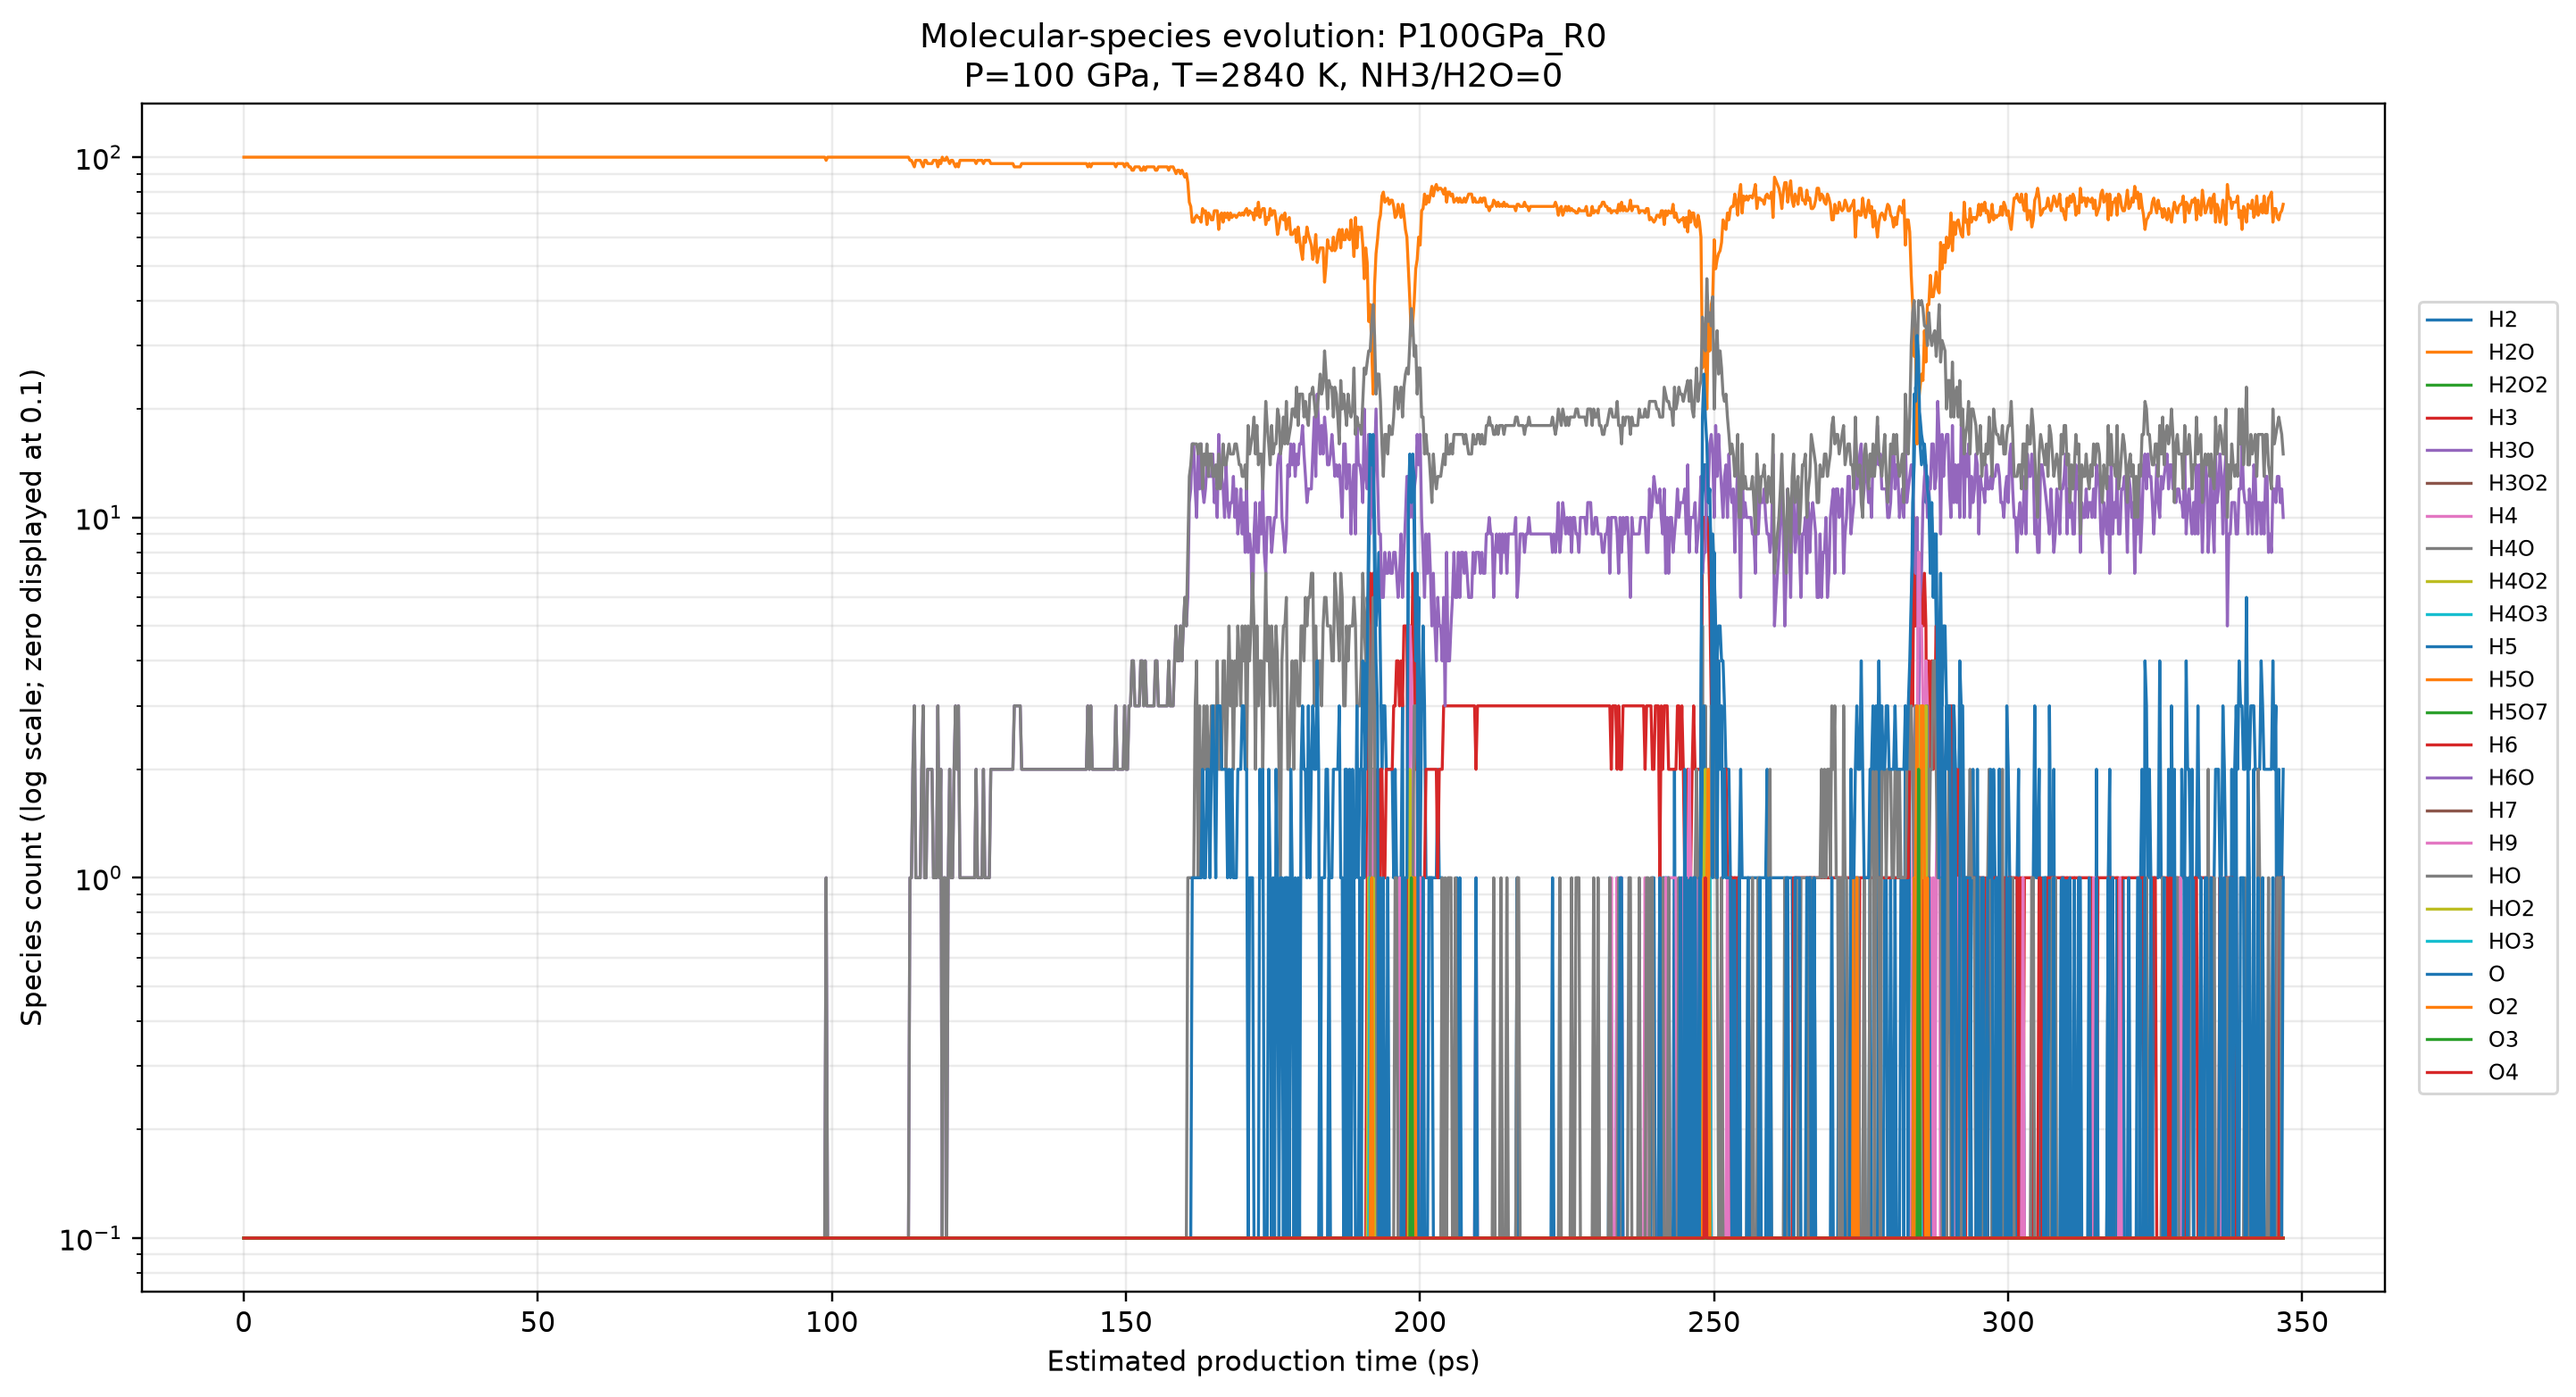
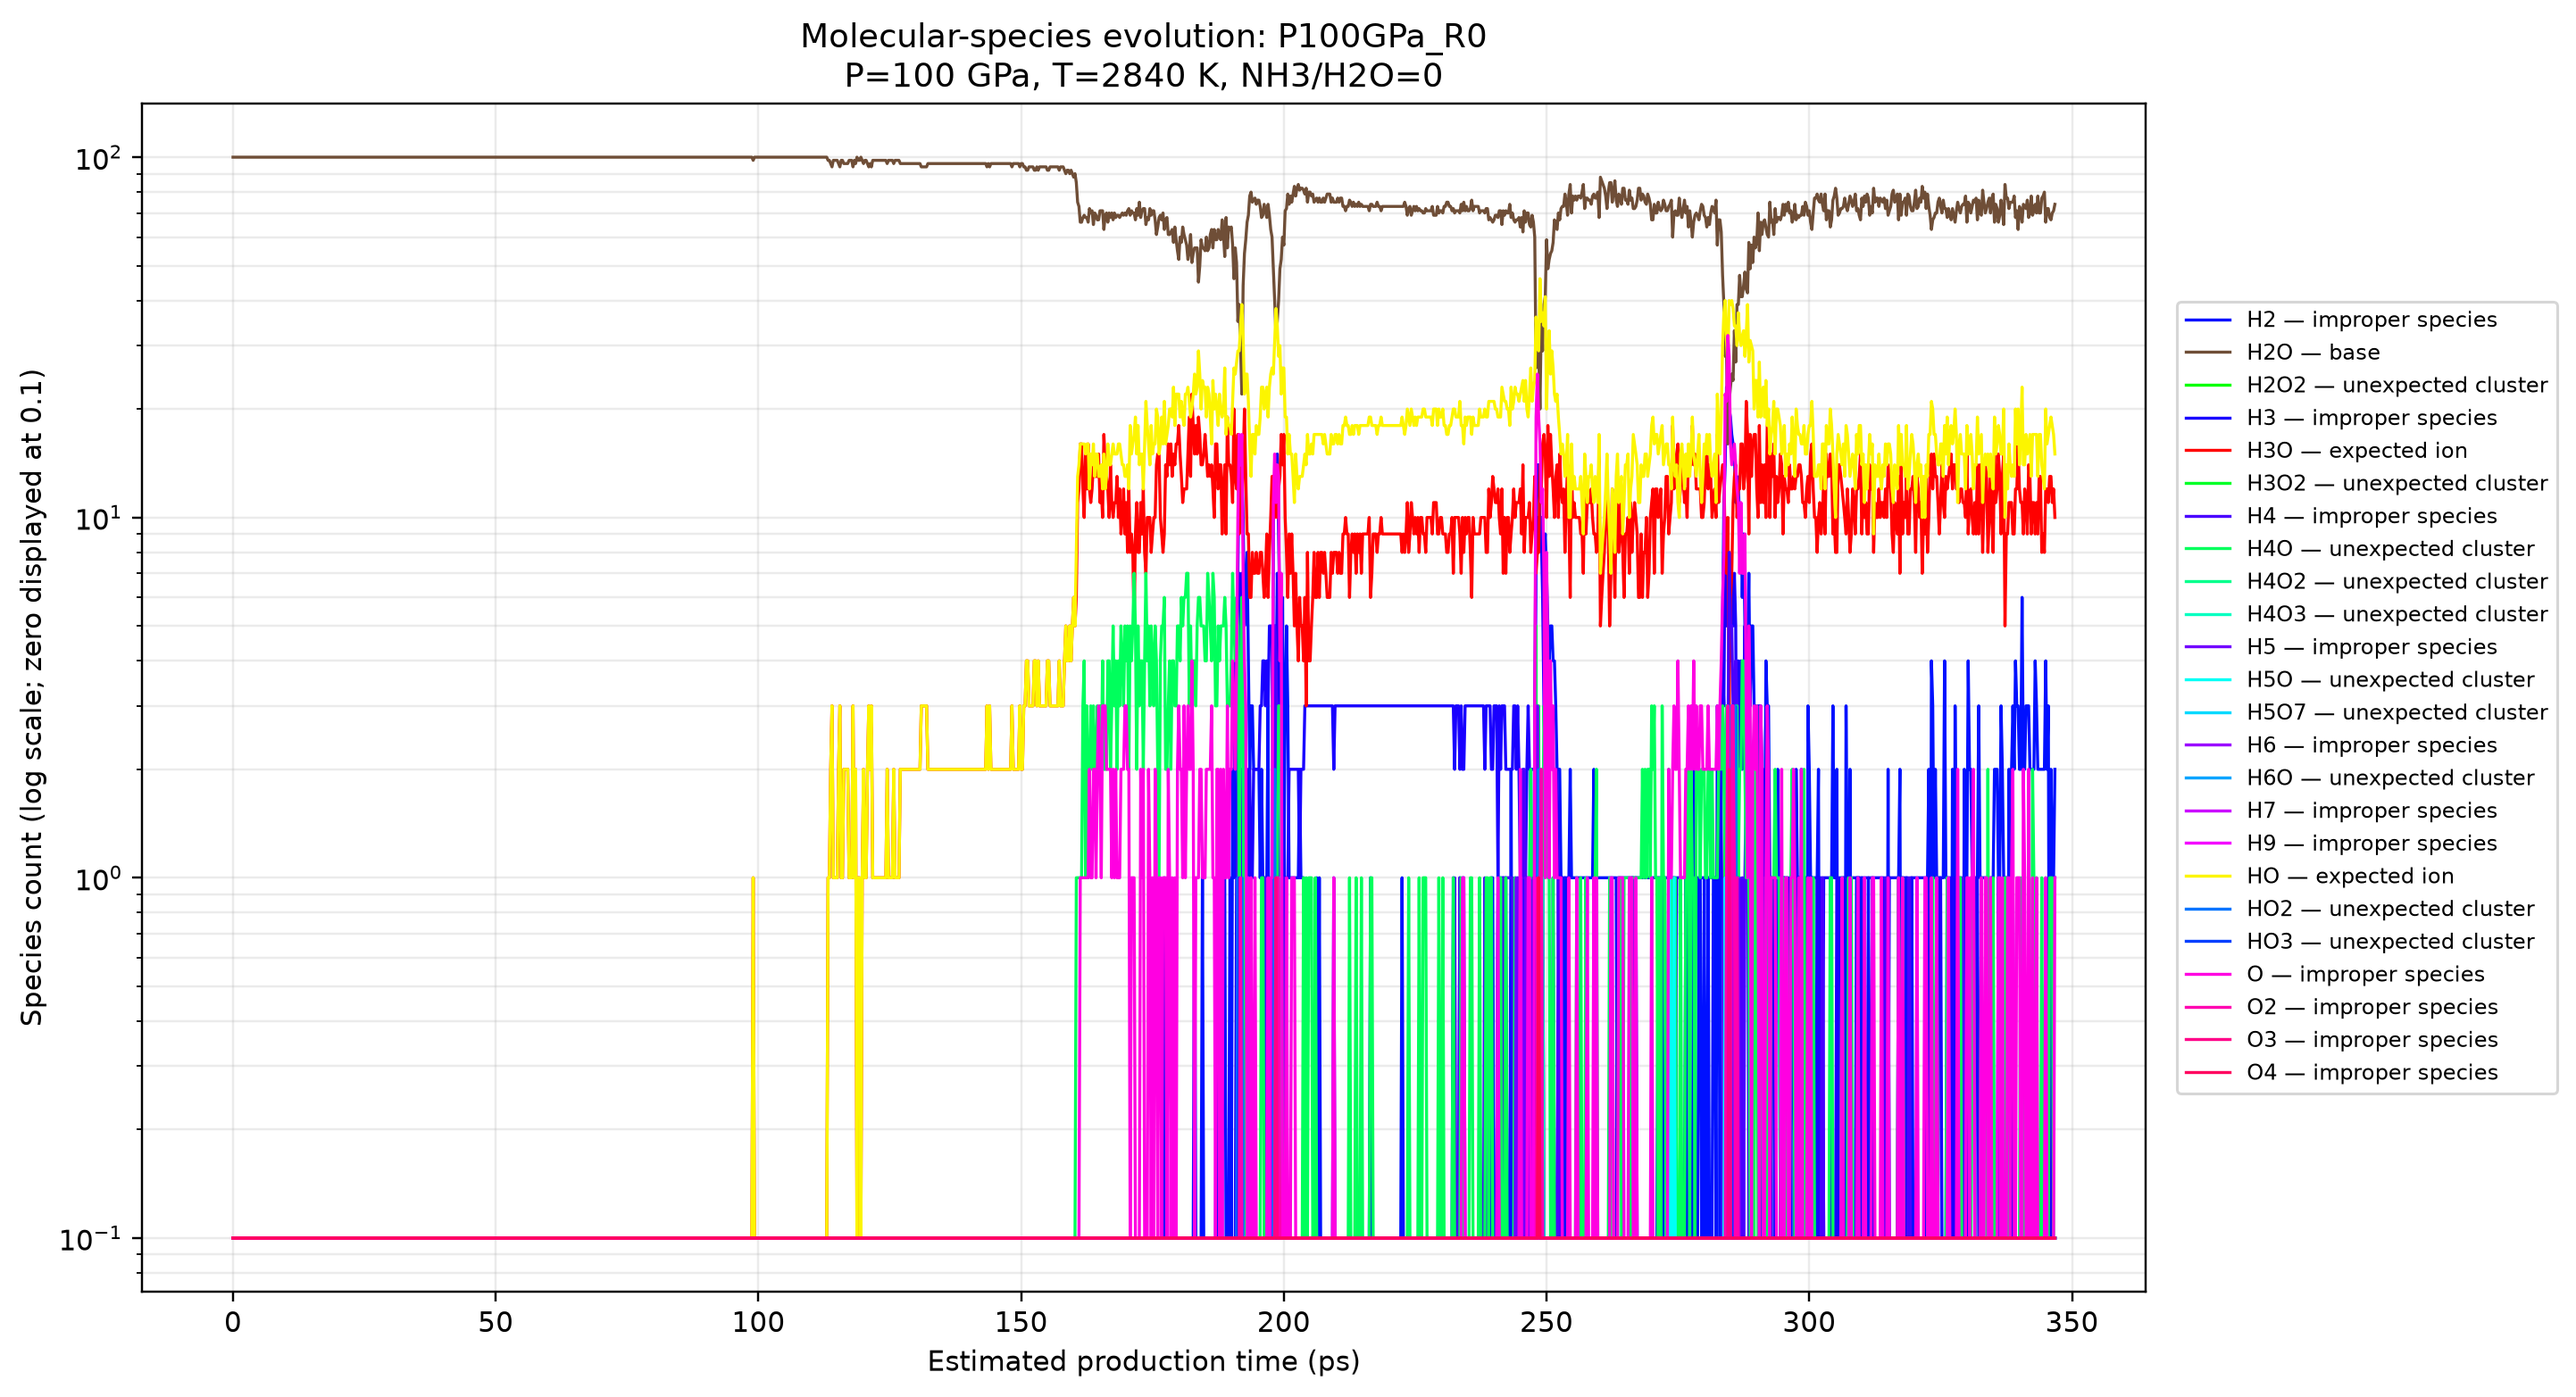
8/25d

diff --git a/codes/B_conditionsproduction/plot_species_time_series.py b/codes/B_conditionsproduction/plot_species_time_series.py
@@ -1,9 +1,10 @@
 #!/usr/bin/env python3
 """Plot molecular-species counts through time for production trajectories.
 
-The default run analyses every condensed frame of the first manifest condition
-(P100GPa_R0) and uses four worker processes. Raw zero counts remain zero in
-the CSV; zeros are replaced by 0.1 only when drawing the logarithmic plot.
+The default run analyses every condensed frame of all 20 manifest conditions,
+processing conditions sequentially and frames with four worker processes. Raw
+zero counts remain zero in the CSV; zeros are replaced by 0.1 only when drawing
+the logarithmic plot. One CSV and one figure are written per condition.
 """
 
 from __future__ import annotations
@@ -56,7 +57,7 @@ def parse_args() -> argparse.Namespace:
     parser.add_argument(
         "--run-id",
         action="append",
-        help="Condition to analyse; repeat for several. Default: first manifest condition only.",
+        help="Restrict analysis to a condition; repeat for several. Default: all conditions.",
     )
     parser.add_argument("--all-conditions", action="store_true")
     parser.add_argument("--workers", type=int, default=4)
@@ -91,7 +92,7 @@ def select_rows(args: argparse.Namespace) -> list[dict[str, str]]:
     if args.all_conditions:
         return rows
     if not args.run_id:
-        return rows[:1]
+        return rows
     requested = set(args.run_id)
     selected = [row for row in rows if row["run_id"] in requested]
     missing = requested - {row["run_id"] for row in selected}
@@ -238,6 +239,13 @@ def plot_time_series(
     selected = [index for index in range(len(names)) if counts[:, index].max() >= min_peak_count]
     if not selected:
         raise ValueError("No species satisfy --min-peak-count")
+    category_order = {
+        "base": 0,
+        "expected_ion": 1,
+        "unexpected_cluster": 2,
+        "improper_species": 3,
+    }
+    selected.sort(key=lambda index: (category_order[species_category(names[index])], names[index]))
 
     fig, ax = plt.subplots(figsize=(13, 7), constrained_layout=True)
     colors = category_colors([names[index] for index in selected])
@@ -284,12 +292,19 @@ def main() -> None:
     rows = select_rows(args)
     output_dir = args.output_dir.resolve()
     output_dir.mkdir(parents=True, exist_ok=True)
-    print(f"Using {args.workers} worker processes", flush=True)
+    print(
+        f"Processing {len(rows)} condition(s) sequentially with "
+        f"{args.workers} frame-analysis worker processes",
+        flush=True,
+    )
     with ProcessPoolExecutor(max_workers=args.workers) as executor:
-        for row in rows:
+        for condition_number, row in enumerate(rows, start=1):
             run_id = row["run_id"]
             trajectory = species_base.trajectory_for_run(args.input_dir.resolve(), run_id)
-            print(f"[{run_id}] Reading {trajectory}", flush=True)
+            print(
+                f"[Condition {condition_number}/{len(rows)}: {run_id}] Reading {trajectory}",
+                flush=True,
+            )
             frame_results = analyse_trajectory(trajectory, args, executor)
             frame_indices, names, counts = species_matrix(frame_results)
             times_ps = frame_indices.astype(float) * args.frame_time_ps
